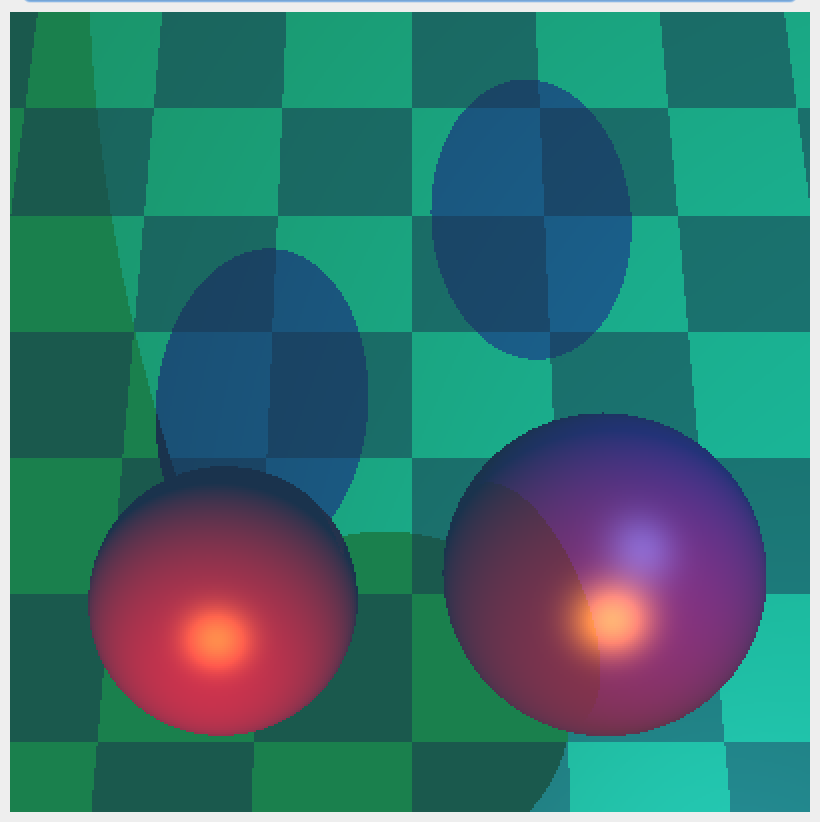
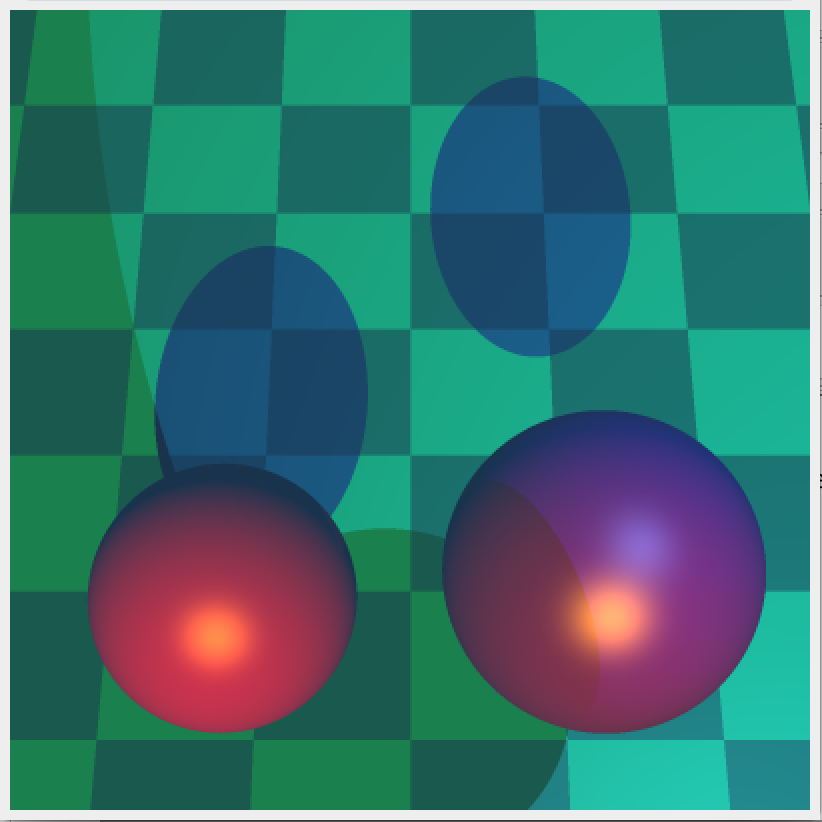
stuff

diff --git a/ex2/Ex2 Ray Tracing/src/edu/cg/scene/objects/Plain.java b/ex2/Ex2 Ray Tracing/src/edu/cg/scene/objects/Plain.java
@@ -107,18 +107,19 @@ public class Plain extends Shape {
     }
 
     private Point pointOnPlane() {
-        double x = -d / a;
-        double y = -d / b;
-        double z = -d / c;
+        double x = -d * a;
+        double y = -d * b;
+        double z = -d * c;
         return new Point(x, y, z);
     }
 
     @Override
     public Hit intersect(Ray ray) {
         // the ray is parallel to the plane
-        if (normal.dot(ray.direction()) == 0){
+        if (normal().dot(ray.direction()) == 0){
             return new Hit();
         }
+
         //finding t	according to formula
         Point Q0 = pointOnPlane();
         Vec Q0P0 = Q0.sub(ray.source());
@@ -126,14 +127,14 @@ public class Plain extends Shape {
         double normalDotRay = normal().dot(V);
         double scalar = 1.0 / normalDotRay;
         Vec shever = Q0P0.mult(scalar);
-        double t = normal.dot(shever);
+        double t = normal().dot(shever);
 
         //checking which direction is the right one through the normal and its' opposite
         Vec Vneg = V.neg();
-        if (normal.dot(Vneg) > 0) {
-            return new Hit(t, normal);
+        if (normal().dot(Vneg) > 0) {
+            return new Hit(t, normal());
         } else {
-            return new Hit(t, normal.neg());
+            return new Hit(t, normal().neg());
         }
     }
 

diff --git a/ex2/Ex2 Ray Tracing/src/edu/cg/scene/Scene.java b/ex2/Ex2 Ray Tracing/src/edu/cg/scene/Scene.java
@@ -217,7 +217,6 @@ public class Scene {
 			Ray lRay = light.getRayToLight(hittingPoint);
 			Vec Li = lRay.direction();
 			Vec Ii = light.calcIL(hittingPoint);
-			System.out.println("light  " + Ii.toColor().toString());
 
 			Vec first = surface.Kd(hittingPoint).mult(N.dot(Li));
 			Vec second = surface.calcPhong(N, V, Li);
@@ -225,6 +224,10 @@ public class Scene {
 			Vec sum = first.add(second);
 
             sigma = sigma.add(sum.mult(Ii).mult(calcSi(lRay, light)));
+		}
+
+		if (!renderReflections) {
+			return ambientColor.add(sigma);
 		}
 
 		// recursive part:

diff --git a/ex2/Ex2 Ray Tracing/src/edu/cg/scene/objects/Surface.java b/ex2/Ex2 Ray Tracing/src/edu/cg/scene/objects/Surface.java
@@ -35,10 +35,6 @@ public class Surface implements Intersectable {
 		Hit hit = shape.intersect(ray);
 		if (hit.successHit()) {
 			hit.setSurface(this);
-//			if (material.isCheckerBoard) {
-//				System.out.println("is checker board! " + shape.toString());
-//
-//			}
 		}
 		return hit;
 	}

diff --git a/ex2/Ex2 Ray Tracing/src/edu/cg/algebra/Hit.java b/ex2/Ex2 Ray Tracing/src/edu/cg/algebra/Hit.java
@@ -58,4 +58,9 @@ public class Hit implements Comparable<Hit> {
 	public int compareTo(Hit other) {
 		return t < other.t ? -1 : (t > other.t ? 1 : 0);
 	}
+
+	@Override
+	public String toString() {
+		return "t: " + t + ", normal to surface: " + normalToSurface.toString();
+	}
 }
